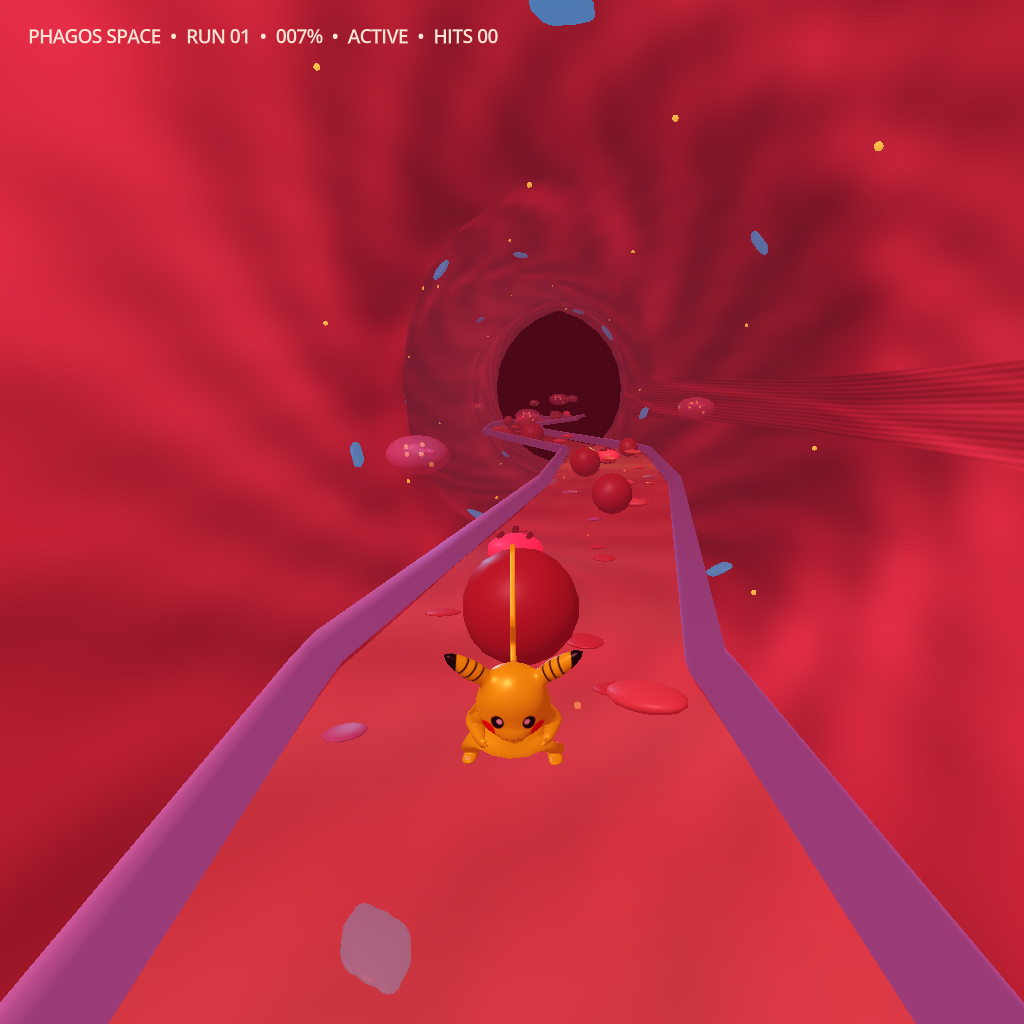
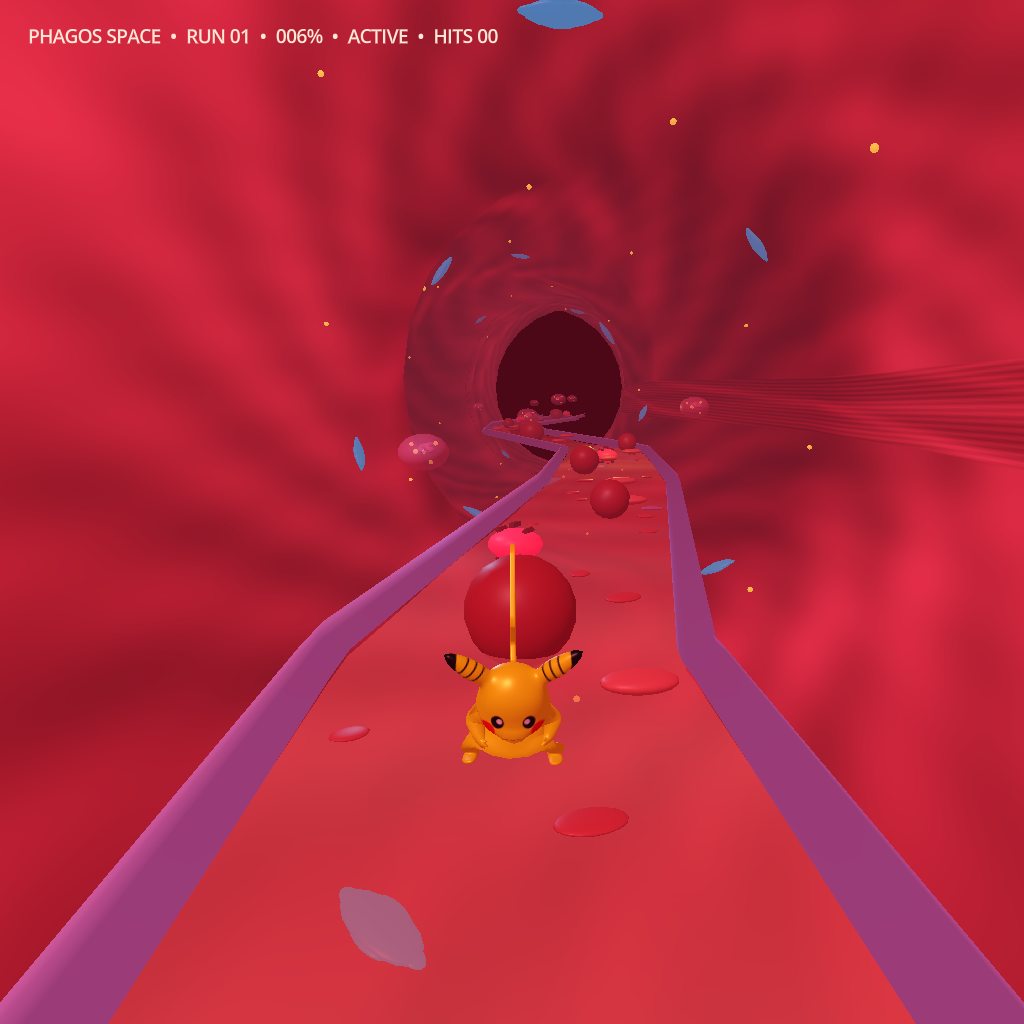
fix: make vessel walls breathe in place

diff --git a/index.html b/index.html
@@ -109,7 +109,7 @@ body {
 
 		<script src="index.js"></script>
 		<script>
-const GODOT_CONFIG = {"args":[],"canvasResizePolicy":2,"emscriptenPoolSize":8,"ensureCrossOriginIsolationHeaders":true,"executable":"index","experimentalVK":false,"fileSizes":{"index.pck":7322360,"index.wasm":35749181},"focusCanvas":true,"gdextensionLibs":[],"godotPoolSize":4};
+const GODOT_CONFIG = {"args":[],"canvasResizePolicy":2,"emscriptenPoolSize":8,"ensureCrossOriginIsolationHeaders":true,"executable":"index","experimentalVK":false,"fileSizes":{"index.pck":7322280,"index.wasm":35749181},"focusCanvas":true,"gdextensionLibs":[],"godotPoolSize":4};
 const GODOT_THREADS_ENABLED = false;
 const engine = new Engine(GODOT_CONFIG);
 

diff --git a/docs/M1_VISUAL_GAP_REVIEW.md b/docs/M1_VISUAL_GAP_REVIEW.md
@@ -11,6 +11,15 @@ Calibration: `F3` resets/locks the canonical start zone before the `F2` overlay 
 
 Reference harus dipakai sebagai acceptance untuk **composition dan density**, bukan hanya sebagai acuan warna merah.
 
+## Koreksi wall motion terbaru
+
+Wall sekarang memakai animasi **breathing in place**, bukan animasi berjalan/scrolling:
+
+- vertex wall mengembang dan mengempis dengan satu siklus waktu yang koheren;
+- pola serat, lipatan, dan vein tetap berada di tempatnya;
+- `motion_clock` berjalan independen dari jarak player, sehingga napas tetap terlihat saat player berhenti dan pada frame kalibrasi;
+- layer blood cells dan track tetap dipisahkan dari animasi wall.
+
 ## Perbedaan yang terlihat
 
 | Area | Reference `Gameplay-Arena.jpg` | Current build | Required correction |
